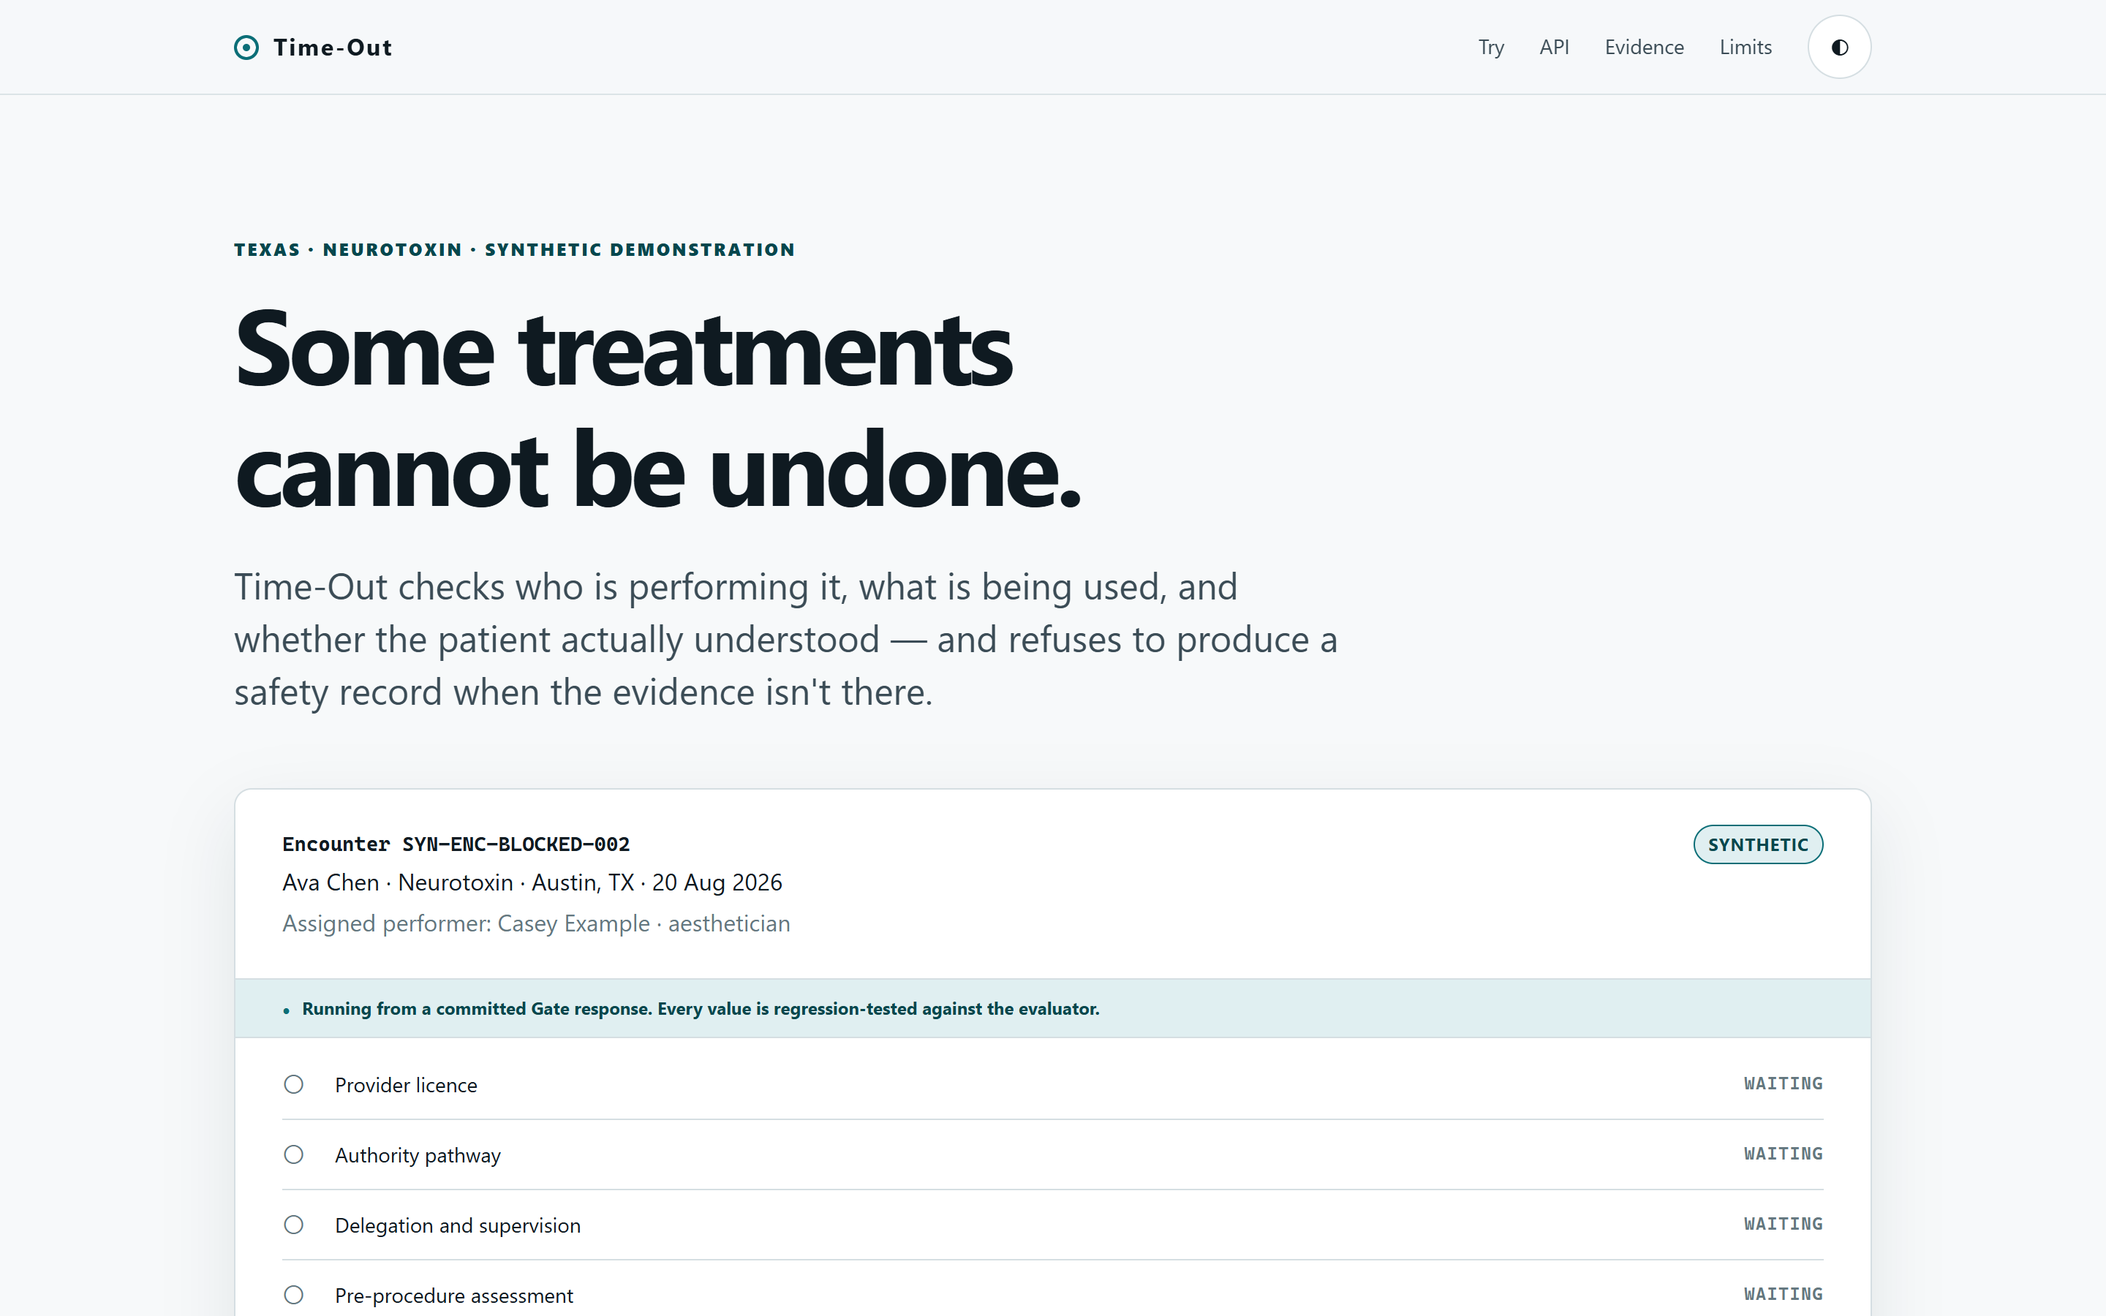
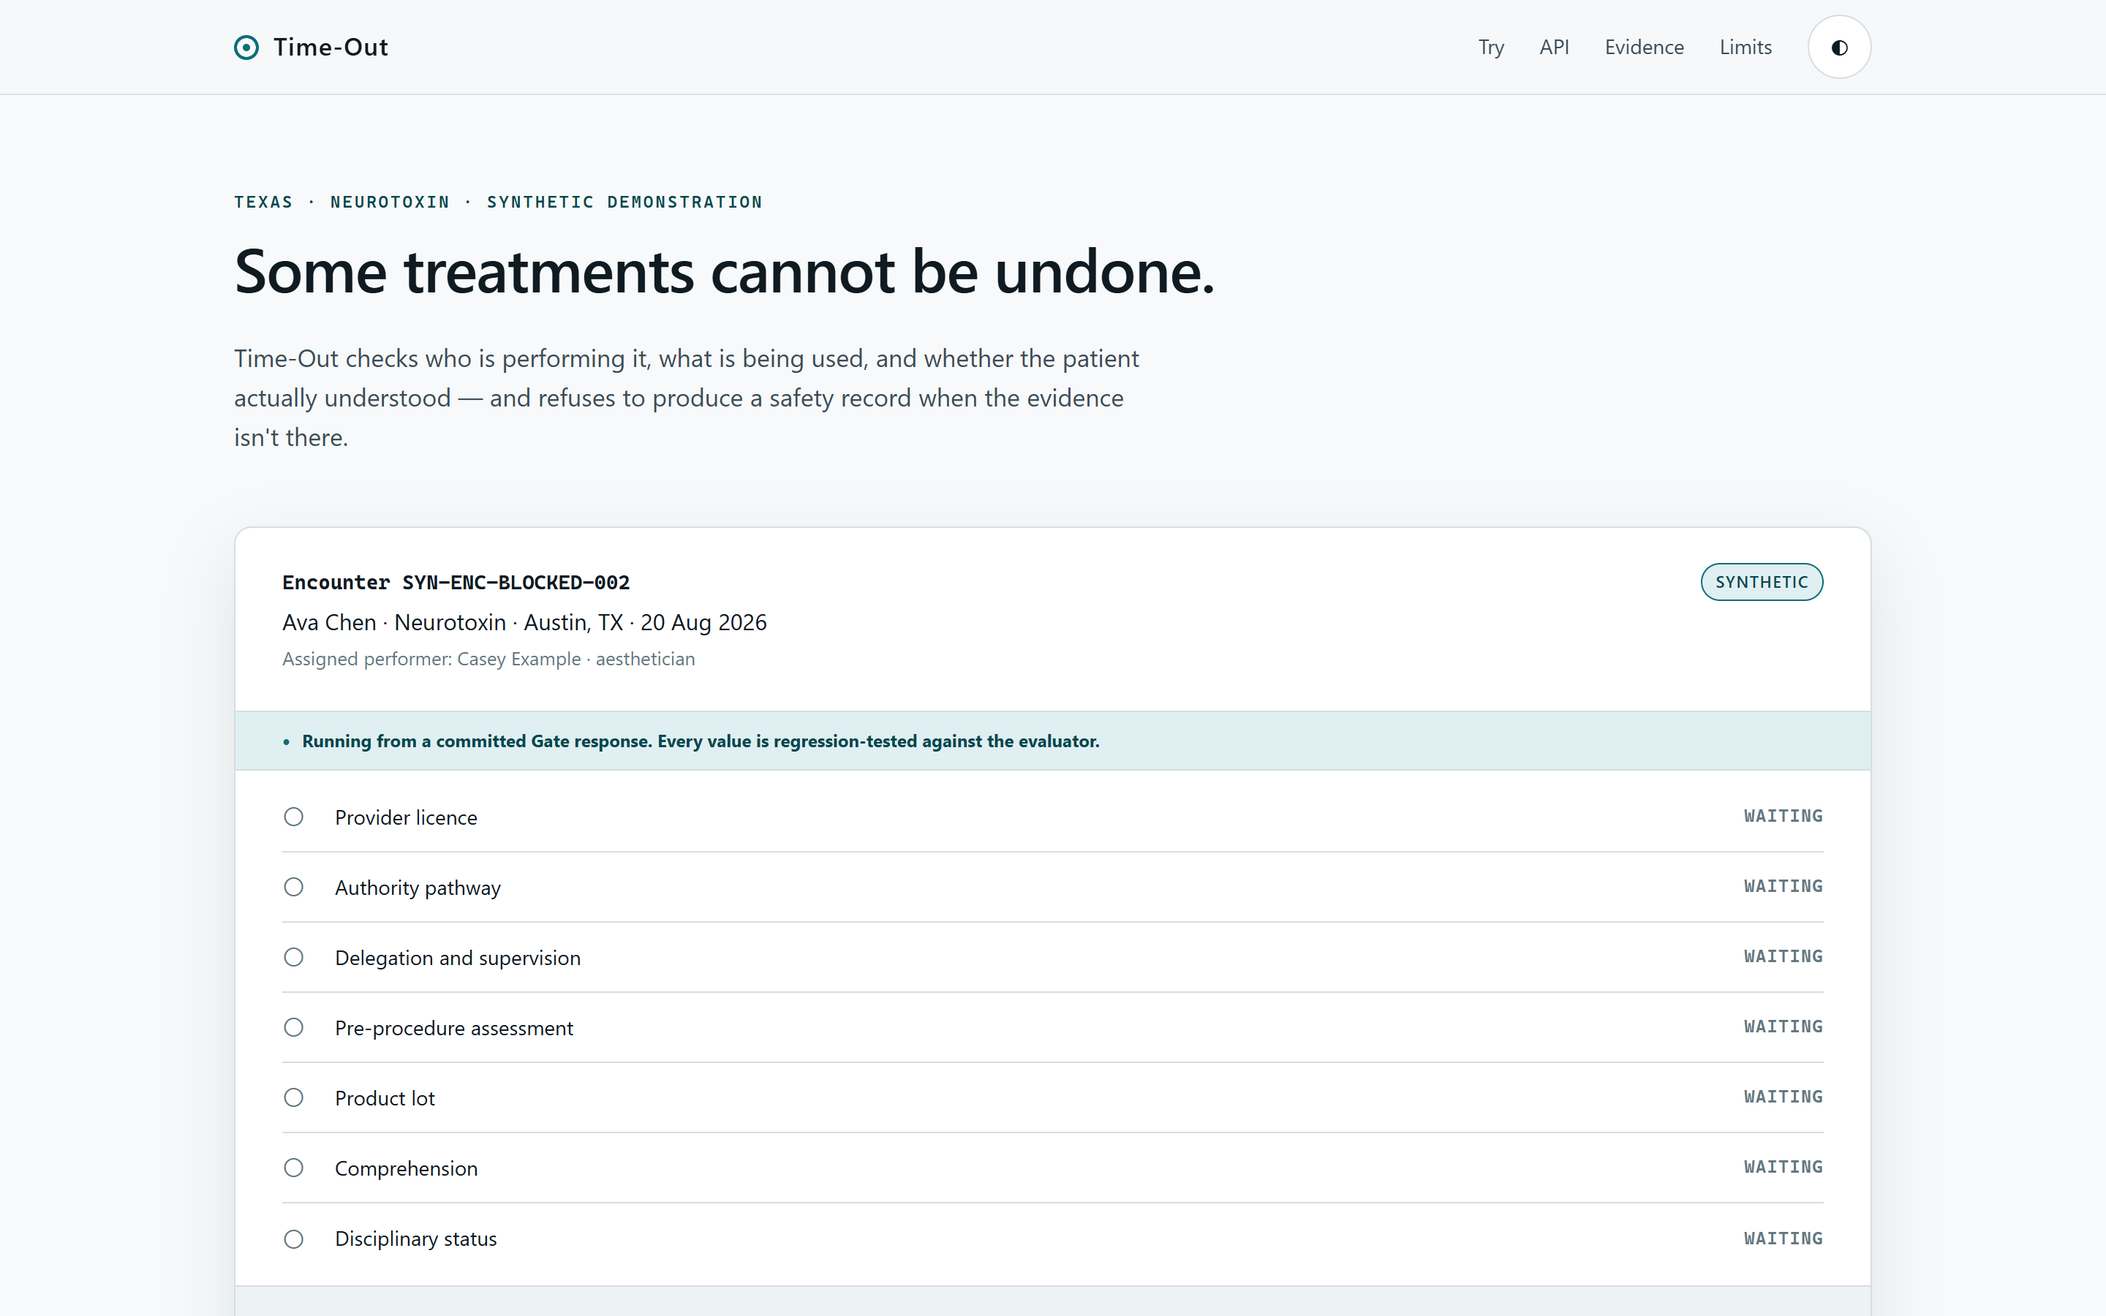
design: quieter type scale, dark mode with its own identity, what/why/how section
- type: h1 72px/700 -> 42px/600, h2 -> 34px/600, lead 25px -> 17px, body 15.5px;
  nothing heavier than 600. Mono reserved for verbatim evidence.
- dark mode is no longer an inversion: cooler ground (#0a1017), mint accent
  (#4ecdc4), softened text contrast so evidence tables read at night
- index.html never linked product.css, so none of the product styling applied
  to the landing page; all six pages now load the same three sheets
- new section: what it is / why it exists / how it works, plus the eight-step
  walkthrough and the reversibility note

diff --git a/before/site/product.css b/before/site/product.css
@@ -136,3 +136,113 @@
 .tamper-proof{margin:.6rem 0;padding:.7rem .9rem;background:var(--blocked-wash,#FBE7E5);border-left:3px solid var(--blocked,#B3261E)}
 .live-now{margin-top:2.5rem;padding-top:1.5rem;border-top:2px solid var(--accent,#0B6E77)}
 .live-grid{display:grid;grid-template-columns:repeat(auto-fit,minmax(20rem,1fr));gap:1.25rem;margin-top:1rem}
+
+/* ============================================================================
+   TYPOGRAPHY PASS — smaller, quieter, regular/medium weights.
+   A safety interlock should read like an instrument, not a billboard.
+   Loaded after styles.css, so these win.
+   ========================================================================= */
+:root{
+  --f-sans: system-ui, -apple-system, "Segoe UI", Roboto, "Helvetica Neue", sans-serif;
+  --f-mono: ui-monospace, "SF Mono", "Cascadia Code", Consolas, monospace;
+  --step--1: 13px; --step-0: 15.5px; --step-1: 17px; --step-2: 20px;
+  --step-3: clamp(22px, 2.4vw, 27px); --step-4: clamp(26px, 3.2vw, 34px);
+  --step-5: clamp(30px, 4.2vw, 42px);
+}
+body{ font-size: var(--step-0); line-height: 1.62; -webkit-font-smoothing: antialiased; }
+
+h1, .hero h1, .page-hero h1{
+  font-size: var(--step-5) !important; font-weight: 600 !important;
+  line-height: 1.12; letter-spacing: -.018em; text-wrap: balance; margin-block: 0 .5rem;
+}
+h2, .page-hero h2, .console-main h2{
+  font-size: var(--step-4) !important; font-weight: 600 !important;
+  line-height: 1.2; letter-spacing: -.012em; text-wrap: balance;
+}
+h3{ font-size: var(--step-2) !important; font-weight: 600 !important; line-height: 1.3; letter-spacing: -.006em; }
+h4{ font-size: var(--step-1) !important; font-weight: 600 !important; }
+
+.lead{ font-size: var(--step-1) !important; font-weight: 400 !important; color: var(--ink-2); max-width: 68ch; line-height: 1.6; text-wrap: pretty; }
+p{ max-width: 72ch; }
+.muted{ color: var(--ink-3); font-size: var(--step--1); }
+
+/* eyebrows and labels: small, spaced, mono — a label, not a heading */
+.eyebrow, .integration-kicker{
+  font-family: var(--f-mono); font-size: 11.5px !important; font-weight: 600 !important;
+  letter-spacing: .13em; text-transform: uppercase; color: var(--accent-ink);
+}
+
+/* nothing on this site is heavier than 600 */
+.wordmark{ font-weight: 600 !important; letter-spacing: .04em; font-size: var(--step-1); }
+.button{ font-weight: 500 !important; font-size: var(--step-0); border-radius: 5px; }
+.button-large{ font-size: var(--step-1); min-height: 48px; }
+.status-pill{ font-family: var(--f-mono); font-weight: 600 !important; font-size: 11px !important; letter-spacing: .07em; }
+.synthetic-chip{ font-weight: 600 !important; font-size: 11px !important; letter-spacing: .07em; }
+strong, b{ font-weight: 600; }
+
+/* mono means "verbatim evidence" — keep it legible, never decorative */
+code, pre, .timeline-detail{ font-family: var(--f-mono); font-size: 12.5px; }
+.findings{ font-size: var(--step--1); }
+.findings th{ font-size: 10.5px; letter-spacing: .11em; }
+
+.timeline-item h3{ font-size: var(--step-1) !important; }
+.timeline-index{ font-family: var(--f-mono); font-size: 12px; font-weight: 600; }
+.attack-btn strong{ font-size: var(--step-0); font-weight: 600; }
+.attack-btn small{ font-size: var(--step--1); }
+.attack-result h3{ font-size: var(--step-2) !important; }
+.receipt-header h1{ font-size: var(--step-4) !important; }
+.receipt-field dt{ font-family: var(--f-mono); font-size: 10.5px; letter-spacing: .11em; text-transform: uppercase; color: var(--ink-3); }
+.receipt-field dd{ font-size: var(--step--1); }
+.metric-pair strong{ font-size: var(--step-3); font-weight: 600; }
+.score-row{ font-size: var(--step--1); }
+.info-pop{ font-size: var(--step--1); line-height: 1.55; }
+.src-badge{ font-size: 10.5px; }
+.audit-events{ font-size: var(--step--1); }
+.hero{ padding-block: 64px 48px !important; }
+.page-hero{ padding-block: 48px 24px; }
+
+/* ============================================================================
+   DARK MODE — its own identity, not an inversion.
+   Cooler, slightly blue-violet ground; mint accent; softened text contrast so
+   long evidence tables stay readable at night.
+   ========================================================================= */
+@media (prefers-color-scheme: dark){
+  :root:not([data-theme="light"]){
+    --bg:#0a1017; --surface:#121a24; --surface-sunk:#182330; --rule:#25333f;
+    --ink:#dde6ec; --ink-2:#a8b8c4; --ink-3:#78899a;
+    --accent:#4ecdc4; --accent-hover:#6fdbd3; --accent-wash:#0e2b2c; --accent-ink:#8fe3dc; --on-accent:#06181a;
+    --ok:#5cc9a0; --ok-wash:#0d2620; --review:#e0aa4f; --review-wash:#2b2214;
+    --blocked:#ff9b8f; --blocked-wash:#331a17;
+    --evidence-bg:#070d14; --evidence-ink:#b9d1da;
+    --shadow: 0 18px 48px rgb(0 0 0 / 38%);
+  }
+}
+:root[data-theme="dark"]{
+  --bg:#0a1017; --surface:#121a24; --surface-sunk:#182330; --rule:#25333f;
+  --ink:#dde6ec; --ink-2:#a8b8c4; --ink-3:#78899a;
+  --accent:#4ecdc4; --accent-hover:#6fdbd3; --accent-wash:#0e2b2c; --accent-ink:#8fe3dc; --on-accent:#06181a;
+  --ok:#5cc9a0; --ok-wash:#0d2620; --review:#e0aa4f; --review-wash:#2b2214;
+  --blocked:#ff9b8f; --blocked-wash:#331a17;
+  --evidence-bg:#070d14; --evidence-ink:#b9d1da;
+  --shadow: 0 18px 48px rgb(0 0 0 / 38%);
+}
+@media (prefers-color-scheme: dark){
+  :root:not([data-theme="light"]) .baseline-portrait img{ filter: brightness(.94); }
+  :root:not([data-theme="light"]) .nutrient-split img{ filter: invert(.92) hue-rotate(180deg) brightness(1.05); }
+}
+:root[data-theme="dark"] .baseline-portrait img{ filter: brightness(.94); }
+:root[data-theme="dark"] .nutrient-split img{ filter: invert(.92) hue-rotate(180deg) brightness(1.05); }
+
+/* what / why / how */
+.what-why-how{ margin-block: 3rem; }
+.wwh-grid{ display:grid; grid-template-columns:repeat(auto-fit,minmax(17rem,1fr)); gap:1.75rem; margin:1.5rem 0 2.25rem; }
+.wwh-grid article{ border-top:2px solid var(--accent); padding-top:.85rem; }
+.wwh-grid h3{ margin:0 0 .5rem; color:var(--accent-ink); }
+.wwh-grid p{ font-size:var(--step--1); line-height:1.62; color:var(--ink-2); }
+.wwh-sub{ margin-top:1rem; }
+.wwh-steps{ counter-reset:s; list-style:none; padding:0; margin:1rem 0; display:flex; flex-direction:column; gap:.7rem; max-width:74ch; }
+.wwh-steps li{ counter-increment:s; position:relative; padding-left:2.4rem; font-size:var(--step--1); line-height:1.6; color:var(--ink-2); }
+.wwh-steps li::before{ content:counter(s); position:absolute; left:0; top:.05rem; width:1.6rem; height:1.6rem; display:grid; place-items:center;
+  font-family:var(--f-mono); font-size:11px; font-weight:600; color:var(--accent-ink); background:var(--accent-wash); border-radius:50%; }
+.wwh-steps strong{ color:var(--ink); }
+.wwh-reverse{ margin-top:1.25rem; padding:.8rem 1rem; background:var(--review-wash); border-left:3px solid var(--review); font-size:var(--step--1); max-width:74ch; }

diff --git a/before/site/index.html b/before/site/index.html
@@ -12,7 +12,7 @@
         if (saved === "light" || saved === "dark") document.documentElement.dataset.theme = saved;
       })();
     </script>
-    <link rel="stylesheet" href="./styles.css">
+    <link rel="stylesheet" href="/styles.css"><link rel="stylesheet" href="/product.css">
     <script src="./app.js" defer></script>
   </head>
   <body>
@@ -149,7 +149,47 @@
           <p style="margin-top:32px"><a href="/evidence.html#integrations">Inspect the implementation evidence →</a></p>
         </div>
       </section>
-      <section class="section limits-section" id="limits">
+      
+  <section class="section shell what-why-how" aria-labelledby="wwh-title">
+    <p class="eyebrow">What it is · Why it exists · How it works</p>
+    <h2 id="wwh-title">The whole thing in ninety seconds.</h2>
+
+    <div class="wwh-grid">
+      <article>
+        <h3>What</h3>
+        <p>Time-Out is a checkpoint that sits between booking a cosmetic procedure and performing it. It asks seven questions about the <em>record</em> — never about the patient — and returns one of three answers: <strong>CLEAR</strong>, <strong>BLOCKED</strong>, or <strong>REVIEW</strong>.</p>
+        <p>If anything required is missing, no safety receipt is produced. The encounter stops until a named person fixes it.</p>
+      </article>
+
+      <article>
+        <h3>Why</h3>
+        <p>Surgeons pause before every incision to confirm the patient, the site, and the procedure. The WHO checklist containing that pause is associated with roughly a third fewer complications. Med spas — about 13,000 in the US, injecting thousands of times a day — have no equivalent.</p>
+        <p>Of twenty med-spa malpractice cases reviewed, thirteen ended in verdicts for the patient, averaging near $2.5M. The leading causes were not bad technique. They were <strong>absent informed consent, failure to communicate risk, and liability for the actions of delegates</strong> — paperwork failures, all of them before the needle.</p>
+      </article>
+
+      <article>
+        <h3>How</h3>
+        <p>Rules live as code with a citation on every one. Documents are read by models into typed fields with confidence scores; anything uncertain goes to a named human before an irreversible step. <strong>No model decides what is legal and no model does arithmetic</strong> — every verdict comes from deterministic code over a cited rules table.</p>
+        <p>Each decision freezes the exact ruleset it used and fingerprints it, so it still explains itself years later. The result is hashed, published, and handed to the patient.</p>
+      </article>
+    </div>
+
+    <h3 class="wwh-sub">What actually happens, step by step</h3>
+    <ol class="wwh-steps">
+      <li><strong>Book</strong> — a patient, a procedure, and the person who will perform it.</li>
+      <li><strong>Read the evidence</strong> — credential, intake, and product documents are extracted with per-field confidence and page coordinates. A field below the floor is routed to a named Medical Director, who sees the uncertain value boxed on the source page.</li>
+      <li><strong>Run seven checks</strong> — licence, authority pathway, delegation and supervision, pre-procedure assessment, product lot, comprehension, board status. All seven run every time; findings are collected, never short-circuited.</li>
+      <li><strong>Refuse, or proceed</strong> — a block names the exact missing fact, cites the rule, and offers a remedy. A person attaches what is missing and re-runs. Nobody edits a database.</li>
+      <li><strong>Check understanding</strong> — the patient says the risks back in their own words. A wrong answer holds the encounter and triggers re-explanation.</li>
+      <li><strong>Record the starting point</strong> — a standardized skin baseline, captured before treatment, that the patient keeps.</li>
+      <li><strong>Assemble and stop</strong> — an agent builds the evidence record and pauses. A licensed human signs the attestation. The agent never signs.</li>
+      <li><strong>Seal and publish</strong> — the record is hashed and the fingerprint published as a DNS record the patient can verify without trusting us.</li>
+    </ol>
+
+    <p class="wwh-reverse"><strong>And it runs backwards when it has to.</strong> If an FDA warning letter or a board action appears after an encounter is already prepared, it returns to human review. Ready is reversible — that is the point of a hold rather than a checkbox.</p>
+  </section>
+
+  <section class="section limits-section" id="limits">
         <div class="shell limits-grid">
           <div class="section-heading"><p class="eyebrow">What this is not</p><h2>We'd rather you trust the parts that work.</h2></div>
           <ul class="limits-list">

diff --git a/before/site/how-it-works.html b/before/site/how-it-works.html
@@ -1,6 +1,6 @@
 <!doctype html>
 <html lang="en">
-<head><meta charset="utf-8"><meta name="viewport" content="width=device-width, initial-scale=1"><meta name="description" content="Technical walkthrough of the deterministic Time-Out Gate and frozen rule snapshot."><title>How it works — Time-Out</title><script>(()=>{const t=localStorage.getItem("before-theme");if(t)document.documentElement.dataset.theme=t})();</script><link rel="stylesheet" href="/styles.css"><link rel="stylesheet" href="/product.css"><script src="/shell.js" defer></script></head>
+<head><meta charset="utf-8"><meta name="viewport" content="width=device-width, initial-scale=1"><meta name="description" content="Technical walkthrough of the deterministic Time-Out Gate and frozen rule snapshot."><title>How it works — Time-Out</title><script>(()=>{const t=localStorage.getItem("before-theme");if(t)document.documentElement.dataset.theme=t})();</script><link rel="stylesheet" href="/styles.css"><link rel="stylesheet" href="/product.css"><link rel="stylesheet" href="/integration-proof.css"><script src="/shell.js" defer></script></head>
 <body><a class="skip-link" href="#main">Skip to content</a><header class="site-header"><nav class="shell nav" aria-label="Primary navigation"><a class="wordmark" href="/"><span class="wordmark-mark" aria-hidden="true"></span>Time-Out</a><div class="nav-links"><a href="/try.html">Try</a><a href="/api.html">API</a><a href="/evidence.html">Evidence</a><a href="/how-it-works.html">How it works</a></div></nav></header>
 <main id="main"><section class="page-hero shell"><p class="eyebrow">Technical walkthrough</p><h1>Models extract. Humans resolve. Code decides the hold.</h1><p class="lead">The Gate is a pure function over typed evidence and a frozen rules table. It collects all seven findings without short-circuiting.</p></section>
 <section class="section surface-section"><div class="shell"><div class="flow-scroll"><ol class="flow"><li><span>1</span><strong>DRAFT</strong></li><li><span>2</span><strong>EVIDENCE_PENDING</strong></li><li><span>3</span><strong>GATE_EVALUATED</strong></li><li><span>4</span><strong>HUMAN_REVIEW</strong></li><li><span>5</span><strong>READY_FOR_PROCEDURE</strong></li></ol><p class="reverse-edge"><span aria-hidden="true">↶</span> READY_FOR_PROCEDURE → HUMAN_REVIEW when a new alert candidate appears.</p></div></div></section>

diff --git a/before/site/evidence.html b/before/site/evidence.html
@@ -1,6 +1,6 @@
 <!doctype html>
 <html lang="en">
-<head><meta charset="utf-8"><meta name="viewport" content="width=device-width, initial-scale=1"><meta name="description" content="Primary sources, implementation evidence, and bounded claims for Time-Out."><title>Evidence — Time-Out</title><script>(()=>{const t=localStorage.getItem("before-theme");if(t)document.documentElement.dataset.theme=t})();</script><link rel="stylesheet" href="/styles.css"><link rel="stylesheet" href="/product.css"><script src="/shell.js" defer></script></head>
+<head><meta charset="utf-8"><meta name="viewport" content="width=device-width, initial-scale=1"><meta name="description" content="Primary sources, implementation evidence, and bounded claims for Time-Out."><title>Evidence — Time-Out</title><script>(()=>{const t=localStorage.getItem("before-theme");if(t)document.documentElement.dataset.theme=t})();</script><link rel="stylesheet" href="/styles.css"><link rel="stylesheet" href="/product.css"><link rel="stylesheet" href="/integration-proof.css"><script src="/shell.js" defer></script></head>
 <body><a class="skip-link" href="#main">Skip to content</a><header class="site-header"><nav class="shell nav" aria-label="Primary navigation"><a class="wordmark" href="/"><span class="wordmark-mark" aria-hidden="true"></span>Time-Out</a><div class="nav-links"><a href="/try.html">Try</a><a href="/api.html">API</a><a href="/evidence.html">Evidence</a><a href="/how-it-works.html">How it works</a></div></nav></header>
 <main id="main"><section class="page-hero shell"><p class="eyebrow">Evidence, not assertions</p><h1>Every material claim has a source or a boundary.</h1><p class="lead">These are the public rules, studies, and implementation files used by the Texas neurotoxin demonstration.</p></section>
 <section class="source-list shell">

diff --git a/before/site/api.html b/before/site/api.html
@@ -3,7 +3,7 @@
 <head>
   <meta charset="utf-8"><meta name="viewport" content="width=device-width, initial-scale=1"><meta name="description" content="Time-Out synthetic sandbox API documentation and playground.">
   <title>API sandbox — Time-Out</title><script>(()=>{const t=localStorage.getItem("before-theme");if(t)document.documentElement.dataset.theme=t})();</script>
-  <link rel="stylesheet" href="/styles.css"><link rel="stylesheet" href="/product.css"><script src="/api-page.js" defer></script>
+  <link rel="stylesheet" href="/styles.css"><link rel="stylesheet" href="/product.css"><link rel="stylesheet" href="/integration-proof.css"><script src="/api-page.js" defer></script>
 <script src="/shell.js" defer></script></head>
 <body>
   <a class="skip-link" href="#main">Skip to content</a><div class="offline-banner">Live Xano synthetic sandbox · No PHI · Texas neurotoxin only</div>
